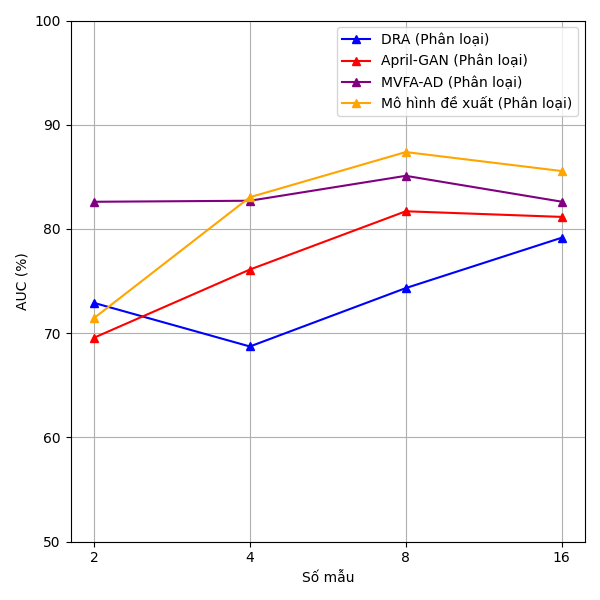
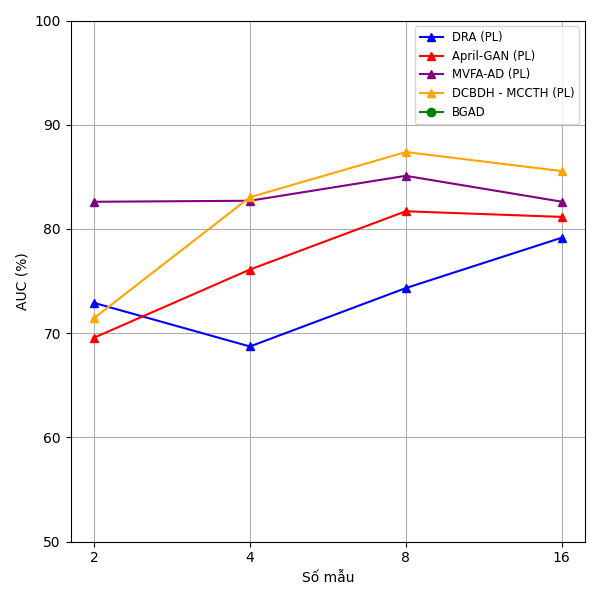
update plots

Changed region(s): [[0.63, 0.03, 0.99, 0.21], [0.57, 0.06, 0.6, 0.18]]

diff --git a/comparison_with_sota.py b/comparison_with_sota.py
@@ -64,7 +64,7 @@ april_gan_results = {
 mvfa_ad_results = {
     # Det
     "HIS_det": [82.61, 82.71, 85.10, 82.62],
-    "chest_Xray_det": [81.32, 81.95, 883.89, 85.72],
+    "chest_Xray_det": [81.32, 81.95, 83.89, 85.72],
     "OCT_17_det": [97.98, 99.38, 99.64, 99.66],
     # Det & Seg
     "brain_MRI_det": [92.72, 92.44, 92.61, 94.40],
@@ -83,8 +83,8 @@ my_model_results = {
     # Det & Seg
     "brain_MRI_det": [92.73, 91.34, 91.9, 94.51],
     "brain_MRI_seg": [96.98, 97.10, 96.95, 97.91],
-    "liver_CT_det": [81.81, 84.50, 89.39, 92.75],
-    "liver_CT_seg": [98.02, 99.63, 99.65, 99.64],
+    "liver_CT_det": [81.18, 84.50, 89.39, 92.75],
+    "liver_CT_seg": [96.83, 99.63, 99.65, 99.64],
     "RESC_det": [92.17, 93.47, 97.14, 97.37],
     "RESC_seg": [97.63, 99.02, 98.92, 99.34],
 }
@@ -101,7 +101,7 @@ def create_results_df(model_name, results_dict):
         for shot, auc in zip(shots, auc_values):
             if auc is not None:
                 rows.append([model_name, dataset, task_type, shot, auc])
-    return pd.DataFrame(rows, columns=["Model", "Dataset", "Task", "Shots", "AUC"])
+    return pd.DataFrame(rows, columns=["Model", "Dataset", "Task", "Số mẫu", "AUC (%)"])
 
 
 # Combine all results into a single DataFrame
@@ -110,12 +110,12 @@ dfs = [
     create_results_df("BGAD", bgad_results),
     create_results_df("April-GAN", april_gan_results),
     create_results_df("MVFA-AD", mvfa_ad_results),
-    create_results_df("Ours", my_model_results),
+    create_results_df("DCBDH - MCCTH", my_model_results),  # Update name here
 ]
 results_df = pd.concat(dfs, ignore_index=True)
 
 # Create directory to save images
-output_dir = "results_plots/paper"
+output_dir = "results_plots"
 os.makedirs(output_dir, exist_ok=True)
 
 # Define markers and colors for each model
@@ -148,7 +148,7 @@ model_styles = {
         "line_style_det": "solid",
         "line_style_seg": "dashed",
     },
-    "Ours": {
+    "DCBDH - MCCTH": {  # Update name here
         "color": "orange",
         "marker_det": "^",
         "marker_seg": "*",
@@ -157,37 +157,58 @@ model_styles = {
     },
 }
 
-
+# 84.36 83.965
 # Plot results and save images
-def plot_results(results_df, dataset):
+def plot_results(results_df, dataset, y_range=None, include_legend=True):
     plt.figure(figsize=(6, 6))
     x_positions = np.arange(len(shots))
-    task_name = {"det": "AD", "seg": "AS"}
+    task_name = {"det": "PL", "seg": "PD"}
+    all_models = set()
+
     for task in ["det", "seg"]:
         subset = results_df[
             (results_df["Dataset"] == dataset) & (results_df["Task"] == task)
         ]
         for model in subset["Model"].unique():
+            all_models.add(model)
             model_data = subset[subset["Model"] == model]
             color = model_styles[model]["color"]
             marker = model_styles[model][f"marker_{task.lower()}"]
             line_style = model_styles[model][f"line_style_{task.lower()}"]
             plt.plot(
                 x_positions,
-                model_data["AUC"],
+                model_data["AUC (%)"],
                 linestyle=line_style,
                 marker=marker,
                 color=color,
                 label=f"{model} ({task_name[task]})",
             )
-    # plt.title(f"{dataset}")
-    plt.xlabel("Shots")
+
+    # Display a single legend for all models
+    if include_legend:
+        # Ensure all models are in the legend
+        for model in model_styles.keys():
+            if model not in all_models:
+                plt.plot(
+                    [],
+                    [],
+                    linestyle="-",
+                    marker="o",
+                    color=model_styles[model]["color"],
+                    label=model,
+                )
+        plt.legend(loc="best", fontsize="small")
+
+    plt.xlabel("Số mẫu")
     plt.ylabel("AUC (%)")
-    plt.ylim(50, 100)
+    if y_range:
+        plt.ylim(y_range)
+    else:
+        plt.ylim(50, 100)
     plt.xticks(x_positions, ["2", "4", "8", "16"])
-    plt.legend()
     plt.grid(True)
     plt.tight_layout()
+
     plt.savefig(os.path.join(output_dir, f"{dataset}_results.png"))
     plt.close()
 
@@ -195,9 +216,12 @@ def plot_results(results_df, dataset):
 # Plot results for relevant datasets
 datasets = ["brain_MRI", "liver_CT", "RESC"]
 for dataset in datasets:
-    plot_results(results_df, dataset)
+    plot_results(results_df, dataset, include_legend=True)
 
-# Plot individual classification results
+# Plot individual classification results with legend on OCT_17
 datasets_det_only = ["OCT_17", "chest_Xray", "HIS"]
 for dataset in datasets_det_only:
-    plot_results(results_df, dataset)
+    if dataset == "OCT_17":
+        plot_results(results_df, dataset, y_range=(80, 100), include_legend=True)
+    else:
+        plot_results(results_df, dataset, include_legend=True)
